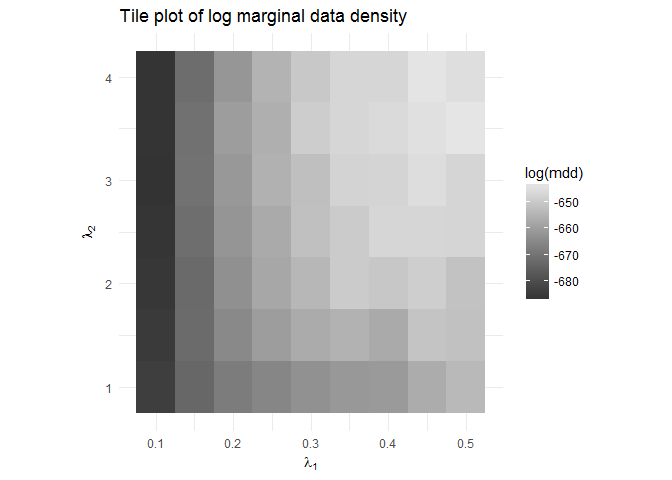
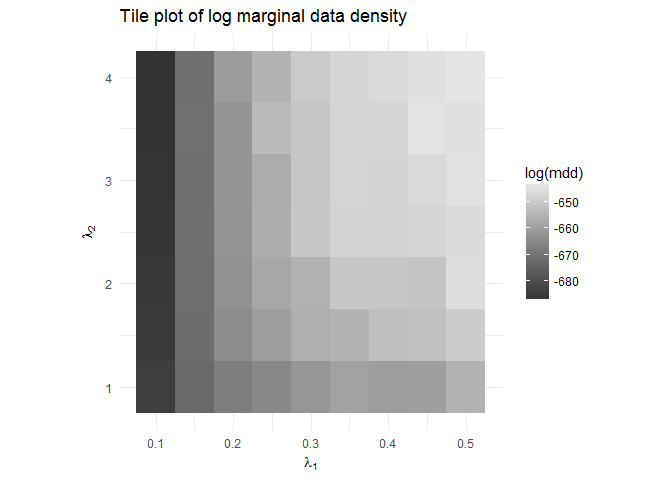
_schorf functions now more or less done (but still ugly code), readme updated with example

Changed region(s): [[0.6562, 0.5312, 0.7188, 0.6562]]

diff --git a/README.md b/README.md
@@ -1,7 +1,32 @@
+mfbvar
+================
+
+-   [Version news](#version-news)
+    -   [0.2.5 (2017-03-24)](#section)
+    -   [0.2.3 (2017-03-14)](#section-1)
+    -   [0.2.1 (2017-03-11)](#section-2)
+-   [Example file](#example-file)
+    -   [Data generation](#data-generation)
+    -   [Settings and priors](#settings-and-priors)
+    -   [Main call](#main-call)
+    -   [Obtaining the results](#obtaining-the-results)
+    -   [Marginal data density](#marginal-data-density)
+    -   [Profiling](#profiling)
+    -   [Minnesota prior](#minnesota-prior)
 
 <!-- README.md is generated from README.Rmd. Please edit that file -->
-News (2017-03-14)
-=================
+Version news
+============
+
+0.2.5 (2017-03-24)
+------------------
+
+What is new in version 0.2.5:
+
+-   A model without a steady-state prior is now implemented using a Minnesota MNIW prior, which is computed using a dummy observations implementation. It is a hybrid of what Banbura et al (2011), Brave et al (2016) and Schorfheide and Song (2015) use. It allows for an overall tightness hyperparameter, a lag decay hyperparameter and a hyperparameter for the intercept. Note that the dummy observations implementation is different in the three listed articles: Banbura et al (2011) have no sample mean included (see their equation (5) and compare it to equation (14) in Brave) and Banbura et al and Brave et al use the full-sample means and error standard deviations in the priors, whereas Schorfheide and Song only make use of a pre-sample. The current implementation in `mfbvar` is to use the full sample for both.
+
+0.2.3 (2017-03-14)
+------------------
 
 What is new in version 0.2.3:
 
@@ -11,8 +36,8 @@ What is new in version 0.2.3:
 -   `interval_to_moments()` to convert a matrix of prior probability intervals to prior moments of `psi`
 -   Unit testing (using `testthat`) is now incorporated by checking the 100th draw
 
-News (2017-03-11)
------------------
+0.2.1 (2017-03-11)
+------------------
 
 What is new in version 0.2.1:
 
@@ -31,6 +56,11 @@ First, we generate some dummy data as a VAR(1) with three variables whose uncond
 
 ``` r
 library(mfbvar)
+#> 
+#> Attaching package: 'mfbvar'
+#> The following object is masked from 'package:stats':
+#> 
+#>     smooth
 TT <- 200
 n_vars <- 3
 set.seed(100)
@@ -109,12 +139,11 @@ lambda2 <- 1
 The prior on the steady states also needs to be set:
 
 ``` r
-prior_psi_mean <- c(0, 0, 0) 
-prior_psi_Omega <- c(0.5, 0.5, 0.5) 
-prior_psi_Omega <- diag((prior_psi_Omega / (qnorm(0.975, mean = 0, sd = 1)*2))^2) 
+prior_psi_int <- matrix(c(-0.25, 0.25), 3, 2, byrow = TRUE)
+prior_psi <- interval_to_moments(prior_psi_int)
+prior_psi_mean <- prior_psi$prior_psi_mean
+prior_psi_Omega <- prior_psi$prior_psi_Omega
 ```
-
-The third line simply converts the length of the prior interval to the variance in a normal distribution.
 
 Finally, we also need to create the matrix that relates unobservables to observables. In this example, the first two variables are assumed to be observed every period, whereas the third is assumed to be observed every third time period. Moreover, when it is observed, we observe the average over three periods. This can be specified using the `build_Lambda()` function:
 
@@ -159,25 +188,29 @@ summary(mfbvar_obj)
 #> Posterior means computed
 #> 
 #> Pi:
-#>              GDP.1    Infl.1 Interest.1       GDP.2     Infl.2 Interest.2
-#> GDP      0.2467701 0.1905712 0.13849480 0.001015672 0.07926770 0.04078901
-#> Infl     0.1328758 0.2114197 0.09046319 0.016197890 0.05045790 0.03374226
-#> Interest 0.1686538 0.2654526 0.22852264 0.027153808 0.07362818 0.06835149
-#>                 GDP.3       Infl.3  Interest.3        GDP.4       Infl.4
-#> GDP      0.0009157218 0.0043586532 0.008650647  0.008153989 -0.001059212
-#> Infl     0.0056653333 0.0006571032 0.008621241 -0.000137672 -0.004142920
-#> Interest 0.0093120250 0.0174182153 0.025819416  0.006654419  0.004599498
-#>            Interest.4
-#> GDP      0.0005647538
-#> Infl     0.0030522296
-#> Interest 0.0098405867
+#>           indep
+#> dep            GDP.1    Infl.1 Interest.1       GDP.2     Infl.2
+#>   GDP      0.2467701 0.1905712 0.13849480 0.001015672 0.07926770
+#>   Infl     0.1328758 0.2114197 0.09046319 0.016197890 0.05045790
+#>   Interest 0.1686538 0.2654526 0.22852264 0.027153808 0.07362818
+#>           indep
+#> dep        Interest.2        GDP.3       Infl.3  Interest.3        GDP.4
+#>   GDP      0.04078901 0.0009157218 0.0043586532 0.008650647  0.008153989
+#>   Infl     0.03374226 0.0056653333 0.0006571032 0.008621241 -0.000137672
+#>   Interest 0.06835149 0.0093120250 0.0174182153 0.025819416  0.006654419
+#>           indep
+#> dep              Infl.4   Interest.4
+#>   GDP      -0.001059212 0.0005647538
+#>   Infl     -0.004142920 0.0030522296
+#>   Interest  0.004599498 0.0098405867
 #> 
 #> 
 #>  Sigma:
-#>                GDP      Infl  Interest
-#> GDP      1.1460172 0.1387042 0.2720717
-#> Infl     0.1387042 1.1839855 0.5274565
-#> Interest 0.2720717 0.5274565 1.6322905
+#>           
+#>                  GDP      Infl  Interest
+#>   GDP      1.1460172 0.1387042 0.2720717
+#>   Infl     0.1387042 1.1839855 0.5274565
+#>   Interest 0.2720717 0.5274565 1.6322905
 #> 
 #> 
 #>  Psi:
@@ -289,53 +322,53 @@ The return is an object of class `mdd`, for which three methods are implemented.
 
 ``` r
 mdd_res
-#>              [,1]      [,2]      [,3]      [,4]      [,5]      [,6]
-#> log_mdd -683.7274 -673.0102 -667.7217 -665.3272 -662.7505 -660.8704
+#>              [,1]    [,2]      [,3]      [,4]      [,5]      [,6]
+#> log_mdd -683.9068 -672.71 -667.5279 -664.8309 -661.5852 -658.7216
+#> lambda1    0.1000    0.15    0.2000    0.2500    0.3000    0.3500
+#> lambda2    1.0000    1.00    1.0000    1.0000    1.0000    1.0000
+#>              [,7]      [,8]      [,9]     [,10]     [,11]     [,12]
+#> log_mdd -659.8579 -659.4978 -655.0714 -685.0139 -671.6465 -664.0274
+#> lambda1    0.4000    0.4500    0.5000    0.1000    0.1500    0.2000
+#> lambda2    1.0000    1.0000    1.0000    1.5000    1.5000    1.5000
+#>             [,13]     [,14]     [,15]     [,16]     [,17]     [,18]
+#> log_mdd -659.6101 -655.7387 -654.6977 -652.0273 -651.6987 -649.1619
+#> lambda1    0.2500    0.3000    0.3500    0.4000    0.4500    0.5000
+#> lambda2    1.5000    1.5000    1.5000    1.5000    1.5000    1.5000
+#>             [,19]     [,20]     [,21]     [,22]    [,23]     [,24]
+#> log_mdd -685.7092 -671.2205 -662.7641 -657.6189 -655.236 -650.3005
+#> lambda1    0.1000    0.1500    0.2000    0.2500    0.300    0.3500
+#> lambda2    2.0000    2.0000    2.0000    2.0000    2.000    2.0000
+#>             [,25]     [,26]     [,27]     [,28]    [,29]     [,30]
+#> log_mdd -650.3692 -650.9158 -645.2381 -686.3874 -671.101 -662.3744
+#> lambda1    0.4000    0.4500    0.5000    0.1000    0.150    0.2000
+#> lambda2    2.0000    2.0000    2.0000    2.5000    2.500    2.5000
+#>            [,31]     [,32]     [,33]     [,34]     [,35]     [,36]
+#> log_mdd -655.835 -650.1671 -647.8125 -647.4244 -647.0225 -645.7987
+#> lambda1    0.250    0.3000    0.3500    0.4000    0.4500    0.5000
+#> lambda2    2.500    2.5000    2.5000    2.5000    2.5000    2.5000
+#>             [,37]     [,38]     [,39]     [,40]     [,41]     [,42]
+#> log_mdd -686.8133 -671.1491 -662.1048 -656.3391 -650.3463 -647.3307
 #> lambda1    0.1000    0.1500    0.2000    0.2500    0.3000    0.3500
-#> lambda2    1.0000    1.0000    1.0000    1.0000    1.0000    1.0000
-#>              [,7]      [,8]      [,9]   [,10]     [,11]     [,12]
-#> log_mdd -660.5268 -656.3475 -653.2478 -684.98 -672.0283 -664.5906
-#> lambda1    0.4000    0.4500    0.5000    0.10    0.1500    0.2000
-#> lambda2    1.0000    1.0000    1.0000    1.50    1.5000    1.5000
-#>             [,13]     [,14]     [,15]     [,16]    [,17]    [,18]    [,19]
-#> log_mdd -659.8905 -656.5388 -654.9418 -656.6594 -650.892 -651.482 -685.833
-#> lambda1    0.2500    0.3000    0.3500    0.4000    0.450    0.500    0.100
-#> lambda2    1.5000    1.5000    1.5000    1.5000    1.500    1.500    2.000
-#>             [,20]     [,21]     [,22]     [,23]     [,24]     [,25]
-#> log_mdd -672.1435 -662.9657 -657.3545 -653.6948 -649.2687 -650.0762
-#> lambda1    0.1500    0.2000    0.2500    0.3000    0.3500    0.4000
-#> lambda2    2.0000    2.0000    2.0000    2.0000    2.0000    2.0000
-#>             [,26]     [,27]    [,28]     [,29]     [,30]     [,31]
-#> log_mdd -648.4397 -651.2195 -686.509 -671.3404 -661.6287 -656.7549
-#> lambda1    0.4500    0.5000    0.100    0.1500    0.2000    0.2500
-#> lambda2    2.0000    2.0000    2.500    2.5000    2.5000    2.5000
-#>             [,32]     [,33]     [,34]     [,35]     [,36]     [,37]
-#> log_mdd -651.7985 -649.1342 -646.7131 -646.6936 -646.8671 -686.9477
-#> lambda1    0.3000    0.3500    0.4000    0.4500    0.5000    0.1000
-#> lambda2    2.5000    2.5000    2.5000    2.5000    2.5000    3.0000
-#>             [,38]     [,39]     [,40]     [,41]     [,42]     [,43]
-#> log_mdd -670.2451 -660.9317 -655.0603 -651.8939 -647.3467 -647.2382
-#> lambda1    0.1500    0.2000    0.2500    0.3000    0.3500    0.4000
 #> lambda2    3.0000    3.0000    3.0000    3.0000    3.0000    3.0000
-#>             [,44]     [,45]     [,46]     [,47]     [,48]     [,49]
-#> log_mdd -645.1904 -646.9559 -686.6875 -670.5887 -659.8894 -655.5043
-#> lambda1    0.4500    0.5000    0.1000    0.1500    0.2000    0.2500
-#> lambda2    3.0000    3.0000    3.5000    3.5000    3.5000    3.5000
-#>             [,50]     [,51]     [,52]     [,53]     [,54]     [,55]
-#> log_mdd -648.8613 -646.6725 -645.8138 -644.5609 -643.4306 -686.8019
-#> lambda1    0.3000    0.3500    0.4000    0.4500    0.5000    0.1000
-#> lambda2    3.5000    3.5000    3.5000    3.5000    3.5000    4.0000
-#>             [,56]     [,57]     [,58]    [,59]    [,60]     [,61]
-#> log_mdd -671.4148 -661.3773 -654.6615 -649.855 -646.684 -646.8024
-#> lambda1    0.1500    0.2000    0.2500    0.300    0.350    0.4000
-#> lambda2    4.0000    4.0000    4.0000    4.000    4.000    4.0000
-#>             [,62]     [,63]
-#> log_mdd -643.5514 -644.8638
-#> lambda1    0.4500    0.5000
-#> lambda2    4.0000    4.0000
+#>             [,43]    [,44]     [,45]     [,46]     [,47]     [,48]
+#> log_mdd -647.4566 -646.166 -644.3134 -686.9366 -670.7347 -661.7908
+#> lambda1    0.4000    0.450    0.5000    0.1000    0.1500    0.2000
+#> lambda2    3.0000    3.000    3.0000    3.5000    3.5000    3.5000
+#>             [,49]     [,50]     [,51]     [,52]    [,53]     [,54]
+#> log_mdd -653.1947 -650.4752 -647.1988 -647.1809 -644.038 -644.5792
+#> lambda1    0.2500    0.3000    0.3500    0.4000    0.450    0.5000
+#> lambda2    3.5000    3.5000    3.5000    3.5000    3.500    3.5000
+#>             [,55]     [,56]     [,57]    [,58]     [,59]     [,60]
+#> log_mdd -687.0563 -671.0388 -660.2257 -654.694 -649.4749 -646.8574
+#> lambda1    0.1000    0.1500    0.2000    0.250    0.3000    0.3500
+#> lambda2    4.0000    4.0000    4.0000    4.000    4.0000    4.0000
+#>             [,61]     [,62]     [,63]
+#> log_mdd -645.8799 -644.6532 -643.5382
+#> lambda1    0.4000    0.4500    0.5000
+#> lambda2    4.0000    4.0000    4.0000
 summary(mdd_res)
-#> Highest log marginal data density: -643.4306 
-#> Obtained using lambda1 = 0.5 and lambda2 = 3.5
+#> Highest log marginal data density: -643.5382 
+#> Obtained using lambda1 = 0.5 and lambda2 = 4
 plot(mdd_res)
 ```
 
@@ -373,9 +406,59 @@ profiling %>%
 
 ![](README-profiling-1.png)
 
-To do
------
+Minnesota prior
+---------------
 
-Some things that remain to do:
+To compare the results, we can also run the model without a steady-state prior. The code is slightly different and currently fairly ugly behind the scenes, but in principle it is similar using equivalent functions but with a `_schorf` suffix (although this naming is temporary).
 
--   In terms of speed, improvements can most probably mostly be made using a different form of the state-space model as suggested by Schorfheide and Song (2015).
+Using the same simulated data as before, the call is made using `mfbvar_schorf`:
+
+``` r
+lambda3 <- 1e-05
+set.seed(100)
+mfbvar_minn <- mfbvar_schorf(Y, Lambda, prior_Pi_AR1, 
+                             lambda1, lambda2, lambda3, 
+                             n_lags, n_fcst, n_burnin, n_reps, 
+                             verbose = FALSE)
+```
+
+An `mdd` function is also provided, although this is not comparable to the previous calculations because of the omission of the normalizing constant. The details of the method are provided in Schorfheide and Song (2015).
+
+``` r
+monthly_cols <- 3
+postsim <- mfbvar_minn$lnpYY
+Z <- mfbvar_minn$Z
+mdd_minn <- mdd_schorf(monthly_cols, postsim, Z, n_T)
+```
+
+The names are temporary and follow Schorfheide and Song's nomenclature. In the future, this could easily be wrapped into a general `mdd` function.
+
+Comparing the forecasts:
+
+``` r
+fcst_SS <- apply(mfbvar_obj$Z_fcst[,,-1], 1:2, median) %>%
+  as_tibble() %>%
+  rownames_to_column("time") %>% 
+  as_tibble() %>%
+  gather(GDP:Interest, key = "series", value = "value") %>%
+  mutate(time = as.numeric(time), prior = "SS")
+fcst_minn <- apply(mfbvar_minn$Z_fcst[,,-1], 1:2, median) %>%
+  as_tibble() %>%
+  rownames_to_column("time") %>% 
+  as_tibble() %>%
+  gather(GDP:Interest, key = "series", value = "value") %>%
+  mutate(time = as.numeric(time), prior = "Minn")
+
+fcst <- bind_rows(fcst_SS, fcst_minn)
+
+ggplot(fcst, aes(x = time, y = value, linetype = prior)) +
+  geom_line() +
+  facet_wrap(~series) +
+  theme_minimal() +
+  labs(title = "Comparisons of forecasts",
+       x = "Time",
+       y = "Value",
+       linetype = "Prior")
+```
+
+![](README-unnamed-chunk-14-1.png)
